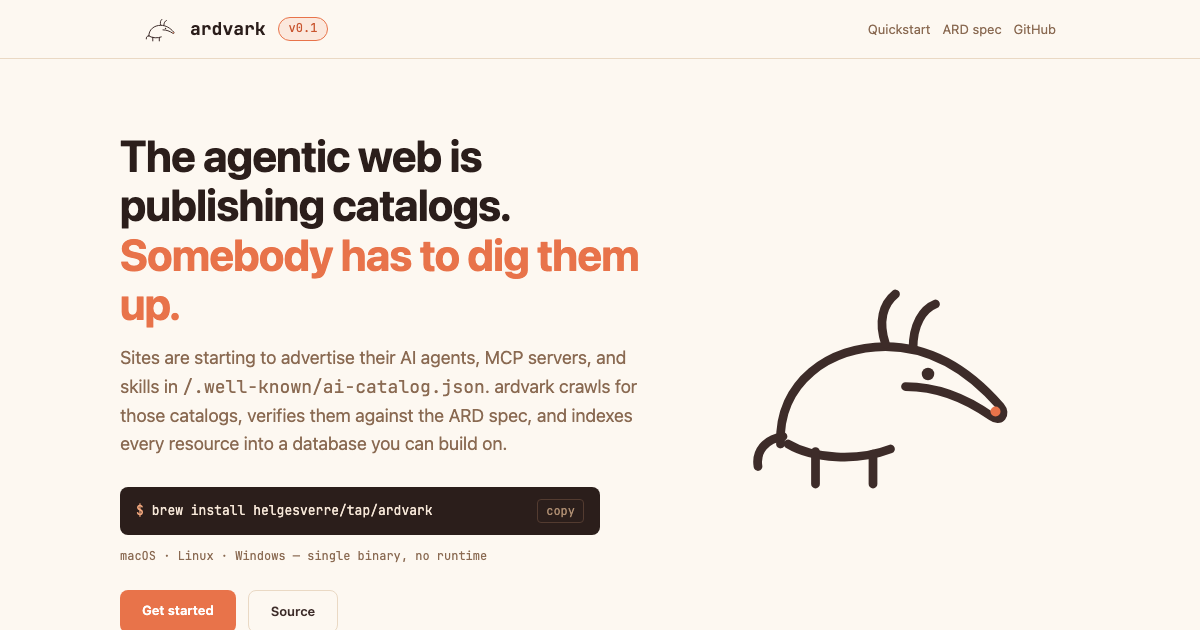
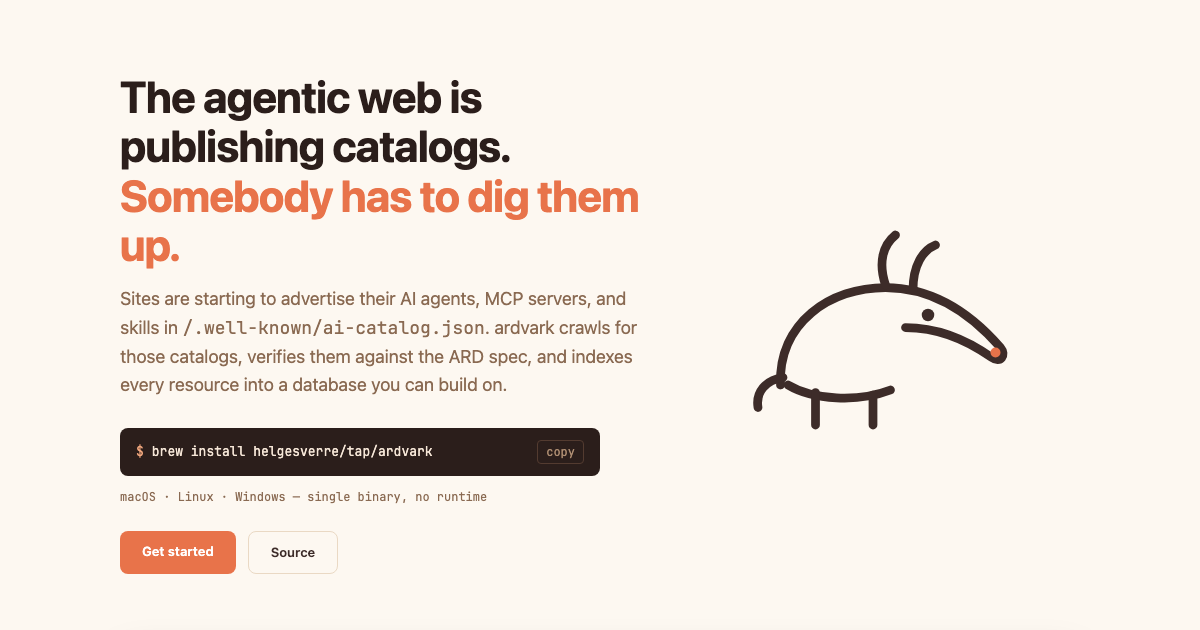
Remove website nav

diff --git a/website/style.css b/website/style.css
@@ -24,50 +24,6 @@ a:hover { text-decoration: underline; }
 
 code, pre { font-family: var(--font-mono); }
 
-/* ── Nav ─────────────────────────────────────────── */
-
-nav {
-  position: sticky;
-  top: 0;
-  z-index: 10;
-  background: color-mix(in srgb, var(--bg) 88%, transparent);
-  backdrop-filter: blur(8px);
-  border-bottom: 1px solid var(--border);
-}
-
-.nav-inner {
-  display: flex;
-  align-items: center;
-  gap: 12px;
-  padding: 12px 24px;
-  max-width: 960px;
-  margin: 0 auto;
-}
-
-.nav-inner img { width: 34px; height: 34px; }
-
-.nav-brand {
-  font-family: var(--font-mono);
-  font-weight: 700;
-  font-size: var(--text-lg);
-  color: var(--text-bright);
-}
-
-.nav-pill {
-  font-family: var(--font-mono);
-  font-size: var(--text-xs);
-  background: var(--brand-primary-fade);
-  color: var(--brand-primary-ink);
-  border: 1px solid var(--brand-primary);
-  border-radius: 999px;
-  padding: 1px 10px;
-}
-
-.nav-spacer { flex: 1; }
-
-.nav-inner a { color: var(--text-muted); font-size: var(--text-sm); }
-.nav-inner a:hover { color: var(--text); text-decoration: none; }
-
 /* ── Hero ────────────────────────────────────────── */
 
 .hero {
@@ -318,8 +274,6 @@ footer {
 /* ── Responsive ──────────────────────────────────── */
 
 @media (max-width: 760px) {
-  .nav-inner { flex-wrap: wrap; row-gap: 4px; padding: 10px 16px; }
-  .nav-inner a { font-size: var(--text-xs); }
   .hero { grid-template-columns: 1fr; padding-top: 40px; }
   .hero-mascot { order: -1; }
   .hero-mascot img { max-width: 180px; }

diff --git a/website/index.html b/website/index.html
@@ -18,18 +18,6 @@
 </head>
 <body>
 
-<nav>
-  <div class="nav-inner">
-    <img src="logo.svg" alt="">
-    <span class="nav-brand">ardvark</span>
-    <span class="nav-pill">v0.1</span>
-    <span class="nav-spacer"></span>
-    <a href="#quickstart">Quickstart</a>
-    <a href="https://agenticresourcediscovery.org">ARD spec</a>
-    <a href="https://github.com/helgesverre/ardvark">GitHub</a>
-  </div>
-</nav>
-
 <header class="hero wrap">
   <div>
     <h1>The agentic web is publishing catalogs.<br><em>Somebody has to dig them up.</em></h1>